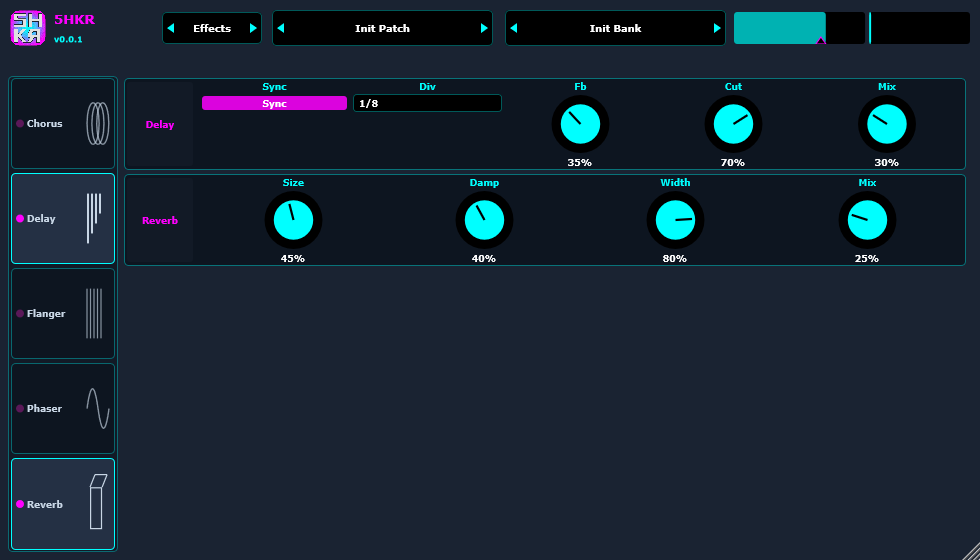
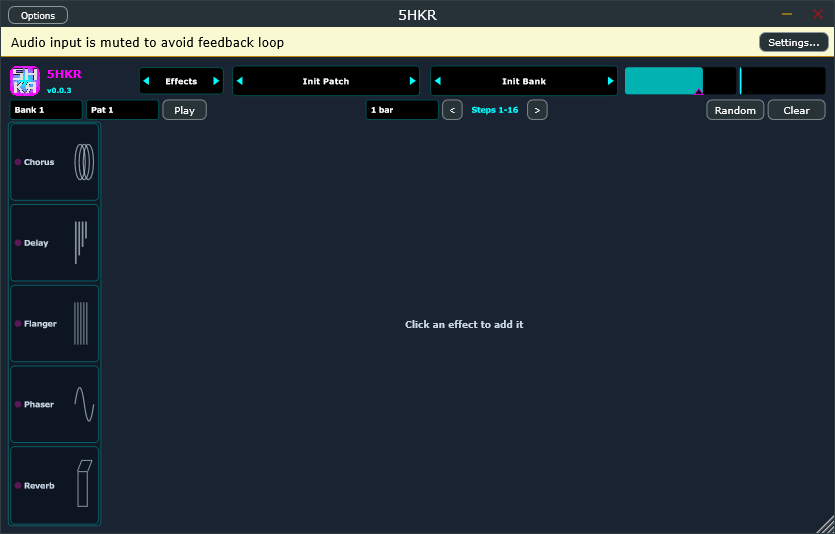
document mixer page with fresh shots
- add mixer.png and a Mixer section
- recapture main, effects, eq, sidechain, about from 0.0.3

Changed region(s): [[0.0, 0.0, 1.0, 1.0], [0.4671, 0.5993, 0.6228, 0.6292]]

diff --git a/docs/index.html b/docs/index.html
@@ -13,6 +13,7 @@
     <a class="brand" href="#top"><img src="logo.png" alt="" width="36" height="36">5HKR</a>
     <nav>
       <a href="#main">Main</a>
+      <a href="#mixer">Mixer</a>
       <a href="#effects">Effects</a>
       <a href="#eq">EQ</a>
       <a href="#sidechain">Sidechain</a>
@@ -45,12 +46,21 @@
       </figure>
     </section>
 
+    <section id="mixer" class="card">
+      <h2>Mixer</h2>
+      <p>One strip per lane. Gain is trim. High / Mid / Low is a 3-band EQ. Filter is a DJ filter (left high-pass, centre off, right low-pass). Pan is constant-power. Mute and solo match Main. The fader is channel level; the thin bar behind it is the lane meter.</p>
+      <figure>
+        <img class="shot" src="mixer.png" alt="5HKR mixer page: eight lane strips">
+        <figcaption>Mixer — trim, 3-band EQ, DJ filter, pan, mute, solo, fader.</figcaption>
+      </figure>
+    </section>
+
     <section id="effects" class="card">
       <h2>Effects</h2>
       <p>Click a name in the left rail to turn it on. Drag rails to reorder. Chorus, Delay, Flanger, Phaser, Reverb, each with its own Mix. Lane FX must be up or the chain is silent.</p>
       <figure>
-        <img class="shot" src="effects.png" alt="5HKR effects page with delay and reverb">
-        <figcaption>Effects — Delay and Reverb in the chain.</figcaption>
+        <img class="shot" src="effects.png" alt="5HKR effects page: chorus, delay, flanger, phaser, reverb">
+        <figcaption>Effects — click a name in the left rail to add it.</figcaption>
       </figure>
     </section>
 
